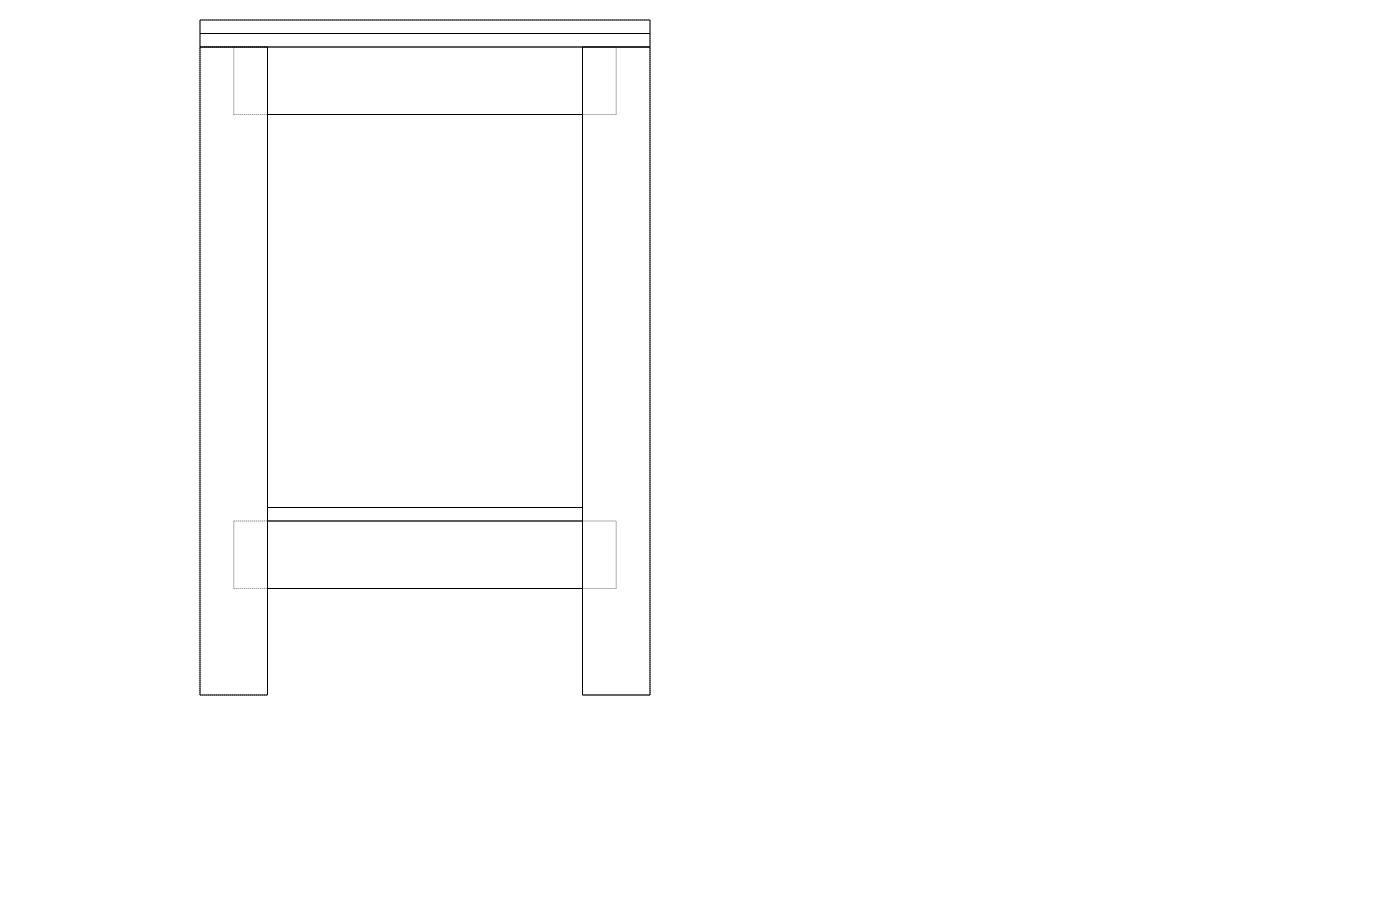
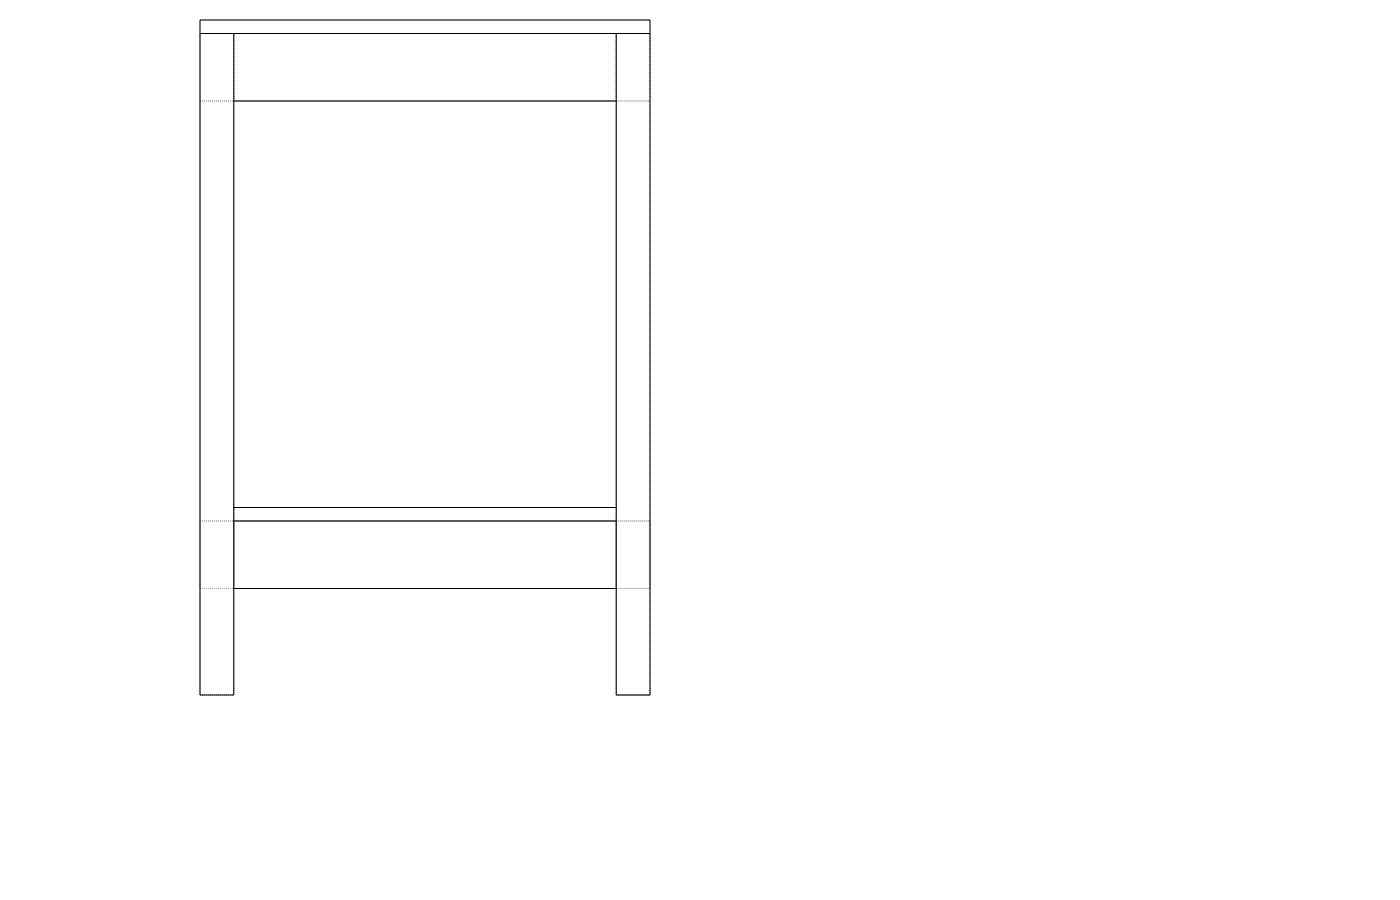
Redesign workbench for NZ materials and hand-tool build
Replace 90×90 hardwood legs with standard 90×45 H3.2 structural pine
(same section as all framing — one timber throughout). Drop doubled
plywood top to a single 18mm sheet. Shelf widens from 420 to 510mm as
a natural consequence of the shallower 45mm leg depth.

Joinery simplified from pocket-screws-and-jig to M10×100 coach screws
+ PVA — driveable with a drill and socket wrench, no jigs. Build plan
rewritten around the two-end-frame method executable with a handsaw.
Budget updated to NZ Mitre 10 / Bunnings pricing ($262.60 NZD, all
stock off the rack with no milling or facing).

https://claude.ai/code/session_01MR9oUDWCE5gXQYjx5DCxaf

diff --git a/projects/garage-workbench/models/workbench.py b/projects/garage-workbench/models/workbench.py
@@ -1,12 +1,18 @@
 """
 Garage Workbench — parametric CadQuery model.
 
+All timber is 90 × 45 mm H3.2 structural pine — the standard affordable
+framing section sold at Mitre 10 / Bunnings NZ.  No milling or facing
+required; use dressed (DAR/PAR) stock straight from the rack.
+
 Structure:
-  Top       : two layers of 18 mm plywood (36 mm total)
-  Legs      : 90 × 90 mm hardwood, 4 off
-  Aprons    : 90 × 45 mm framing pine — long front/back + short end aprons
-  Lower shelf: 18 mm plywood, inset from legs
+  Top        : single 18 mm structural plywood sheet (1800 × 600)
+  Legs       : 90 × 45 mm pine, 4 off — same section as everything else
+  Aprons     : 90 × 45 mm pine — long front/back + short end aprons
+  Lower shelf: 18 mm structural plywood, inset between legs
   Stretchers : 90 × 45 mm pine — long + end pairs supporting shelf
+
+Joinery: coach screws (M10 × 100) + PVA throughout — no jigs needed.
 
 Coordinate system
   X  left → right  (looking at the front face)
@@ -24,12 +30,12 @@ BENCH_D  = 600    # total depth  (Y)
 BENCH_H  = 900    # finished height from floor to top surface (Z)
 
 # Top
-TOP_T    = 18     # thickness of each plywood layer
-TOP_LAYERS = 2    # double-layered top
+TOP_T    = 18     # plywood thickness
+TOP_LAYERS = 1    # single sheet — adequate over a well-spaced frame
 
-# Legs
-LEG_W    = 90     # leg section (X)
-LEG_D    = 90     # leg section (Y)
+# Legs — same 90 × 45 section as all framing; no special stock needed
+LEG_W    = 90     # leg face width (X) — the 90 mm face runs left-right
+LEG_D    = 45     # leg depth (Y)      — the 45 mm face goes front-to-back
 LEG_H    = BENCH_H - TOP_T * TOP_LAYERS  # leg height (top of leg = underside of top)
 
 # Aprons (connect legs at the top, inside face flush with leg inside face)
@@ -85,7 +91,7 @@ STR_BACK_CY  = APR_BACK_CY
 STR_Z        = SHELF_Z - SHELF_T - STR_H / 2   # shelf sits on top of stretchers
 
 # ── Colours ───────────────────────────────────────────────────────────────────
-C_LEG   = cq.Color(0.45, 0.28, 0.14)   # dark hardwood legs
+C_LEG   = cq.Color(0.66, 0.48, 0.30)   # pine — same as all framing
 C_FRAME = cq.Color(0.66, 0.48, 0.30)   # pine framing (aprons / stretchers)
 C_PLY   = cq.Color(0.82, 0.72, 0.50)   # plywood top and shelf
 

diff --git a/projects/garage-workbench/build-plan.md b/projects/garage-workbench/build-plan.md
@@ -3,20 +3,20 @@
 ## Tools required
 
 ### Power tools
-- Circular saw or table saw (ripping plywood and dimensioning framing)
-- Pocket-hole jig (e.g. Kreg K4 or K5) + drill/driver
-- Random orbital sander (80 / 120 / 180 grit)
-- Drill press or handheld drill (pilot holes, countersinks)
+- Drill/driver (pilot holes and driving coach screws)
+- Circular saw or jigsaw (cutting plywood sheet to size) — optional; a panel saw at the timber yard can do this
 
 ### Hand tools
-- Tape measure, combination square, marking gauge
-- Handsaw (cross-cut for short aprons if table saw unavailable)
-- Mallet and chisels (trimming, fitting)
-- Clamps — at least 4 × 600 mm F-clamps and 2 × 1200 mm bar clamps
+- Handsaw (cross-cutting 90×45 framing to length — no table saw needed)
+- Socket wrench with 16 mm or 17 mm socket (tightening M10 coach screws)
+- Tape measure, combination square, pencil
+- Clamps — 4× F-clamps or G-clamps (600 mm jaw sufficient)
+- Hammer (for tapping joints square)
 
 ### Jigs & accessories
-- Kreg pocket-hole jig set for 38 mm and 45 mm stock
-- Straight-edge / clamping guide for circular saw
+- Straight-edge or clamping guide for circular saw (plywood cuts)
+- 6 mm HSS drill bit (pilot holes through legs)
+- 10 mm spade or brad-point bit (optional countersink for coach screw heads)
 
 ---
 
@@ -24,56 +24,75 @@
 
 | Part | Qty | L (mm) | W (mm) | T (mm) | Material | Notes |
 |------|-----|--------|--------|--------|----------|-------|
-| Leg | 4 | 864 | 90 | 90 | 90×90 hardwood | Square both ends |
-| Long apron | 2 | 1620 | 90 | 45 | 90×45 pine | Front and back |
-| Short apron | 2 | 420 | 90 | 45 | 90×45 pine | Left and right ends |
-| Long stretcher | 2 | 1620 | 90 | 45 | 90×45 pine | Front and back lower |
-| Short stretcher | 2 | 420 | 90 | 45 | 90×45 pine | Left and right lower |
-| Top layer (×2) | 2 | 1800 | 600 | 18 | 18 mm ply | Work surface |
-| Lower shelf | 1 | 1620 | 420 | 18 | 18 mm ply | Inset between legs |
+| Leg | 4 | 882 | 90 | 45 | 90×45 H3.2 pine | 90 mm face runs left-right |
+| Long apron | 2 | 1620 | 90 | 45 | 90×45 pine | Front and back, top |
+| Short apron | 2 | 510 | 90 | 45 | 90×45 pine | Left and right ends, top |
+| Long stretcher | 2 | 1620 | 90 | 45 | 90×45 pine | Front and back, lower |
+| Short stretcher | 2 | 510 | 90 | 45 | 90×45 pine | Left and right ends, lower |
+| Top | 1 | 1800 | 600 | 18 | 18 mm F8 ply | Work surface |
+| Lower shelf | 1 | 1620 | 510 | 18 | 18 mm F8 ply | Inset between legs |
 
-**Framing total:** ≈ 8.2 m of 90×45 mm pine (buy 9 m to allow cross-cutting waste)
-**Plywood:** 2 sheets of 2400×1200×18 mm (top layers + shelf from offcuts)
+**Framing total:** 12.0 m of 90×45 mm — buy 13 m to allow for end cuts.
+Suggested lengths: 3× 4.8 m + 1× 3.0 m, or whatever combination covers 13 m with minimal waste.
+
+**Plywood:** 2 sheets of 2400×1200×18 mm F8 structural ply.
+Sheet 1 → top (1800×600). Sheet 2 → shelf (1620×510) with offcut to spare.
 
 ---
 
 ## Build steps
 
-1. **Mill stock** — Square and face all leg stock to 90×90 mm. If buying PAR pine for aprons/stretchers verify 90×45 finished; adjust cut list if dressed size differs.
+1. **Buy dressed stock** — Purchase 90×45 H3.2 DAR (dressed all round) pine. Check each length for straightness; sight down the edge and reject anything badly bowed or twisted. All pieces come at finished size — no planing needed.
 
-2. **Cut legs to length** — Cross-cut all 4 legs to 864 mm. Mark the top and bottom of each leg before cutting so grain stays consistent.
+2. **Cut legs to length** — Cross-cut 4 legs at 882 mm using a handsaw. Mark a square line around all four faces with a combination square before cutting. Bundle the 4 legs and check they are the same length.
 
-3. **Cut aprons and stretchers** — Rip/cross-cut 90×45 pine to:
-   - 2 × 1620 mm (long aprons)
-   - 2 × 420 mm (short aprons)
-   - 2 × 1620 mm (long stretchers)
-   - 2 × 420 mm (short stretchers)
-   Mark each piece before cutting — aprons and stretchers are identical in length but live at different heights.
+3. **Cut aprons and stretchers** — Cross-cut the remaining 90×45 to:
+   - 2× 1620 mm (long aprons)
+   - 2× 510 mm (short aprons)
+   - 2× 1620 mm (long stretchers)
+   - 2× 510 mm (short stretchers)
 
-4. **Drill pocket holes** — Using the Kreg jig set for 45 mm stock, drill 2 pocket holes in each end of every apron and stretcher. Drill on the face that will be hidden (inside face).
+   Label each piece immediately — aprons and stretchers are the same length per pair but live at different heights.
 
-5. **Dry fit end frames** — Clamp one short apron between two legs (flush with top of legs, inside faces) and one short stretcher between the same pair of legs at 160 mm from the floor (so stretcher top face = 250 mm shelf height − 90 mm stretcher height = 160 mm from floor). Confirm the assembly is square; measure diagonals.
+4. **Mark the leg joint positions** — On each leg, mark two lines with a square:
+   - Apron shoulder: 90 mm down from the top (the apron top face is flush with the leg top).
+   - Stretcher shoulder: 142 mm up from the bottom (stretcher bottom face = 142 mm; top face = 232 mm; shelf top = 250 mm).
 
-6. **Glue and screw end frames** — Apply PVA to the mating faces of each apron and stretcher end. Drive 2 pocket screws per joint. Clamp and allow to cure 30 min before disturbing. Build both end frames.
+5. **Build the end frames** — For each of the two end frames (left and right):
 
-7. **Assemble base frame** — Stand the two end frames upright. Insert the two long aprons at the top and the two long stretchers at the lower position. Apply glue to all mating faces, drive pocket screws, and check for square. Use bar clamps to hold while screwing.
+   a. Lay two legs on the floor parallel, 510 mm apart (inside-face to inside-face).
 
-8. **Cut plywood** — From the first 2400×1200 mm sheet, rip 2 pieces at 600 mm wide and cross-cut each to 1800 mm (the two top layers). From offcuts or the second sheet, cut the shelf at 1620 × 420 mm.
+   b. Clamp a short apron across the top between the legs, top faces flush, inside face flush with leg inside face. Check the assembly is square by measuring both diagonals — they should be equal.
 
-9. **Laminate top** — Spread a thin, even coat of PVA over the entire face of the first top layer. Lay the second layer on top with edges flush. Clamp every 200–300 mm with F-clamps. Allow full overnight cure before removing clamps.
+   c. Pre-drill a 6 mm pilot hole through the leg face into each end of the apron. Drive 2× M10×100 coach screws per end with a socket wrench. Apply PVA to the mating surfaces before driving the first screw.
 
-10. **Attach top** — Flip the frame upside-down onto the underside of the laminated top. Position so the top overhangs equally front and back. Drive 50 mm screws through the top edge of each apron up into the plywood underside (3 screws per long apron, 2 per short apron). No countersink needed — screw head pulls into pine.
+   d. Repeat for the short stretcher at the lower position. Measure from the floor mark (142 mm) to position it.
 
-11. **Fit shelf** — Drop the shelf panel onto the stretchers. Check it sits flush. Drive 2 screws per stretcher through the shelf into the stretcher top face to hold it captive.
+   e. Stand the end frame up and check it sits flat. Build the second end frame identically.
 
-12. **Sand and finish** — Sand all exposed surfaces with 80, then 120, then 180 grit. The work surface can be left bare (plywood top will harden with use) or finished with boiled linseed oil (2 coats) for moisture resistance. Wipe down legs and frame with a single coat of Danish oil.
+6. **Connect the end frames** — Stand both end frames upright 1620 mm apart (inside-face to inside-face). Temporarily clamp or prop them vertical.
+
+   a. Fit the two long aprons across the top front and back. Clamp in position, check the frame is square (measure diagonals across the top), then pre-drill and drive 2× coach screws through each leg into the apron end. Apply PVA first.
+
+   b. Fit the two long stretchers at the lower position and fasten the same way.
+
+   c. Once all four long rails are in, the frame should be rigid. Recheck square and adjust if needed (a diagonal tap with a hammer usually corrects a few mm).
+
+7. **Cut plywood** — From sheet 1, cut the top: 1800×600 mm. From sheet 2, cut the shelf: 1620×510 mm. A circular saw with a clamped straight-edge gives a clean straight cut; alternatively ask the timber yard to rip the sheets for you.
+
+8. **Attach the top** — Place the plywood top on the frame, centred side-to-side. Drive 75 mm construction screws at an angle through the top edge of each apron up into the underside of the plywood — 3 screws per long apron and 2 per short apron. No countersink needed; the screw head pulls into pine.
+
+9. **Fit the shelf** — Drop the shelf panel onto the stretchers. Drive 2× 75 mm screws per stretcher through the shelf into the stretcher top face to hold it captive.
+
+10. **Finish** — The H3.2 treated pine needs no additional finish for a garage environment. Round any sharp corners with a few passes of 80-grit sandpaper. The plywood top can be left bare and will harden with use, or apply 2 coats of boiled linseed oil for moisture resistance.
 
 ---
 
 ## Notes
 
-- **Assembly order:** Build end frames first so you have two rigid sub-assemblies to connect — this prevents racking during the final frame assembly.
-- **Square checks:** After every glue-up, measure both diagonals and tap the frame to equal before the glue sets. A 2 mm diagonal discrepancy is acceptable; over 5 mm will cause the bench to rock.
-- **Grain direction:** Orient both plywood top layers with face grain running along the 1800 mm length (stronger in bending, better appearance).
-- **Leg-to-floor:** If the garage floor is uneven, add levelling feet (M10 threaded inserts + adjustable foot pads) in the leg bottoms.
-- **Future vice:** A face vice bolts to the left front apron. Leave the front face of the left leg clear of obstruction so a vice jaw can be fitted flush.
+- **No facing / milling:** DAR 90×45 is sold at finished size. Just cut to length.
+- **Assembly order:** Build end frames on the floor first — it is far easier to keep joints square when the pieces are lying flat. Stand them up only when both frames are complete.
+- **Square check:** After every glue-and-screw step, measure both diagonals. Equal diagonals = square frame. A 2 mm difference is acceptable; correct anything over 4 mm by tapping a corner before the glue sets.
+- **Coach screw tips:** Always pre-drill to prevent splitting. Hold the screw vertical and snug it up with the socket wrench — do not over-tighten or you will crush the pine fibre. Tighten once more the next day after the PVA has cured.
+- **Leg orientation:** The 90 mm face of each leg faces left-right (visible from the front), the 45 mm face goes front-to-back. This keeps the bench shallow and saves material while maintaining good load-bearing capacity.
+- **Future upgrades:** A face vice (Record #52 or similar) bolts to the left-end apron. The 90 mm apron face provides a good clamping surface. Peg-board or plywood tool storage can be screwed directly to the back apron.

diff --git a/projects/garage-workbench/README.md b/projects/garage-workbench/README.md
@@ -1,37 +1,36 @@
 # Garage Workbench
 
-A heavy-duty freestanding workbench sized for general garage use. The frame is 90×90 mm hardwood legs with 90×45 mm pine aprons and stretchers, joined with pocket screws and construction adhesive. The work surface is a doubled 18 mm plywood top (36 mm total) for rigidity and resistance to denting. A lower plywood shelf sits on stretchers at 250 mm to hold tools, bins, or power supplies.
+A straightforward garage workbench built entirely from 90×45 mm H3.2 structural pine — the standard affordable framing timber available at any Mitre 10 or Bunnings NZ. No milling, facing, or special stock is needed; buy dressed (DAR) lengths off the rack and cut to length with a handsaw. Joints are coach-screwed butt joints throughout, so the only tools required are a handsaw, drill, socket set, and square.
 
 ## Status
 
-**modelling**
+**ready-to-build**
 
 ## Dimensions
 
 - Overall: 1800 W × 600 D × 900 H mm
-- Legs: 90 × 90 mm, 864 mm tall (4 off)
-- Long aprons/stretchers: 1620 mm clear span
-- Short aprons/stretchers: 420 mm clear span
-- Work surface: 1800 × 600 mm (2 × 18 mm plywood laminated)
-- Lower shelf: 1620 × 420 × 18 mm plywood (inset between legs at 250 mm)
+- Legs: 90 × 45 mm, 882 mm tall (4 off) — 90 mm face runs left-right
+- Long aprons / stretchers: 1620 mm
+- Short aprons / stretchers: 510 mm
+- Work surface: 1800 × 600 × 18 mm structural plywood (single sheet)
+- Lower shelf: 1620 × 510 × 18 mm structural plywood
 
 ## Materials
 
-- Primary: 18 mm structural plywood (work surface and shelf)
-- Frame: 90 × 45 mm pine (aprons and stretchers)
-- Legs: 90 × 90 mm hardwood (e.g. Victorian ash or spotted gum)
+- Primary: 90×45 mm H3.2 treated structural pine (all legs, aprons, stretchers)
+- Top: 18 mm F8 structural plywood
+- Shelf: 18 mm F8 structural plywood (second sheet or large offcut)
 
 ## Joinery
 
-- Legs to aprons: pocket screws (2 per joint) + PVA glue
-- Aprons to aprons (corners): butt joint with pocket screws
-- Stretchers to legs: pocket screws + glue (same detail as aprons)
-- Top to frame: screws through apron top edge into plywood underside
-- Shelf: rests on stretcher top faces; screwed down
+- All leg-to-apron and leg-to-stretcher joints: 2× M10×100 coach screws + PVA glue
+- Top fixed to frame: 75 mm construction screws through apron top edge into plywood underside
+- Shelf screwed down to stretcher top faces: 75 mm construction screws
 
 ## Notes
 
-- 900 mm finished height is standard ergonomic workbench height for standing work.
-- Double top can be separated and replaced if the surface gets heavily damaged.
-- Shelf is set at 250 mm (top face) — enough clearance beneath for typical tool bins.
-- No vice modelled yet; add a face vice to the left front corner if desired.
+- All 90×45 PAR/DAR stock is sold at finished size — no planing or facing needed.
+- Two-end-frame assembly: build the left and right end frames first, then connect with the four long rails. This is the easiest way to keep everything square without bar clamps.
+- The legs are oriented with the 90 mm face left-right (wide face visible from front) and the 45 mm face front-to-back. This keeps the bench depth compact while the wide face carries the load well.
+- Single 18 mm plywood top is adequate for general garage use. For heavy hammering or metalwork, screw a second sheet underneath later.
+- Shelf is wider (510 mm) than a typical hardwood-legged bench because 90×45 legs are shallower than 90×90 legs.
